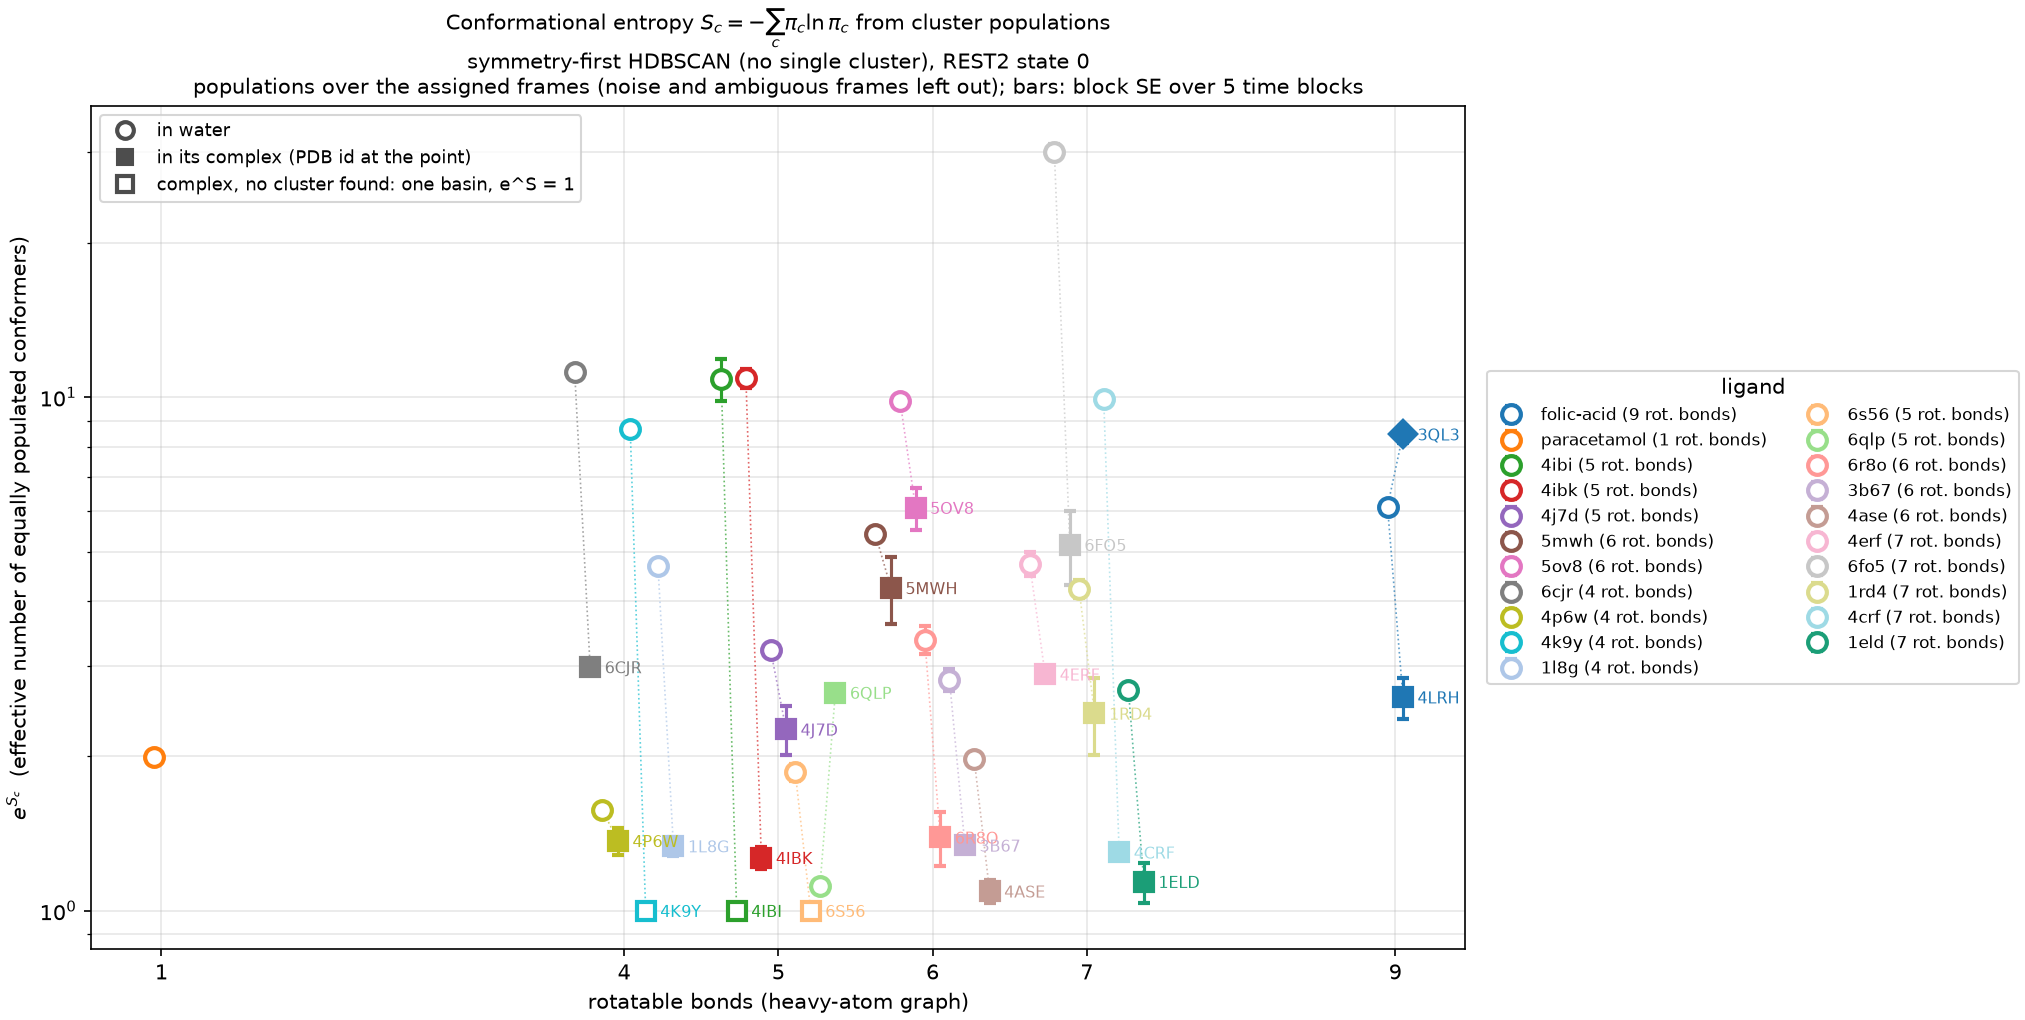
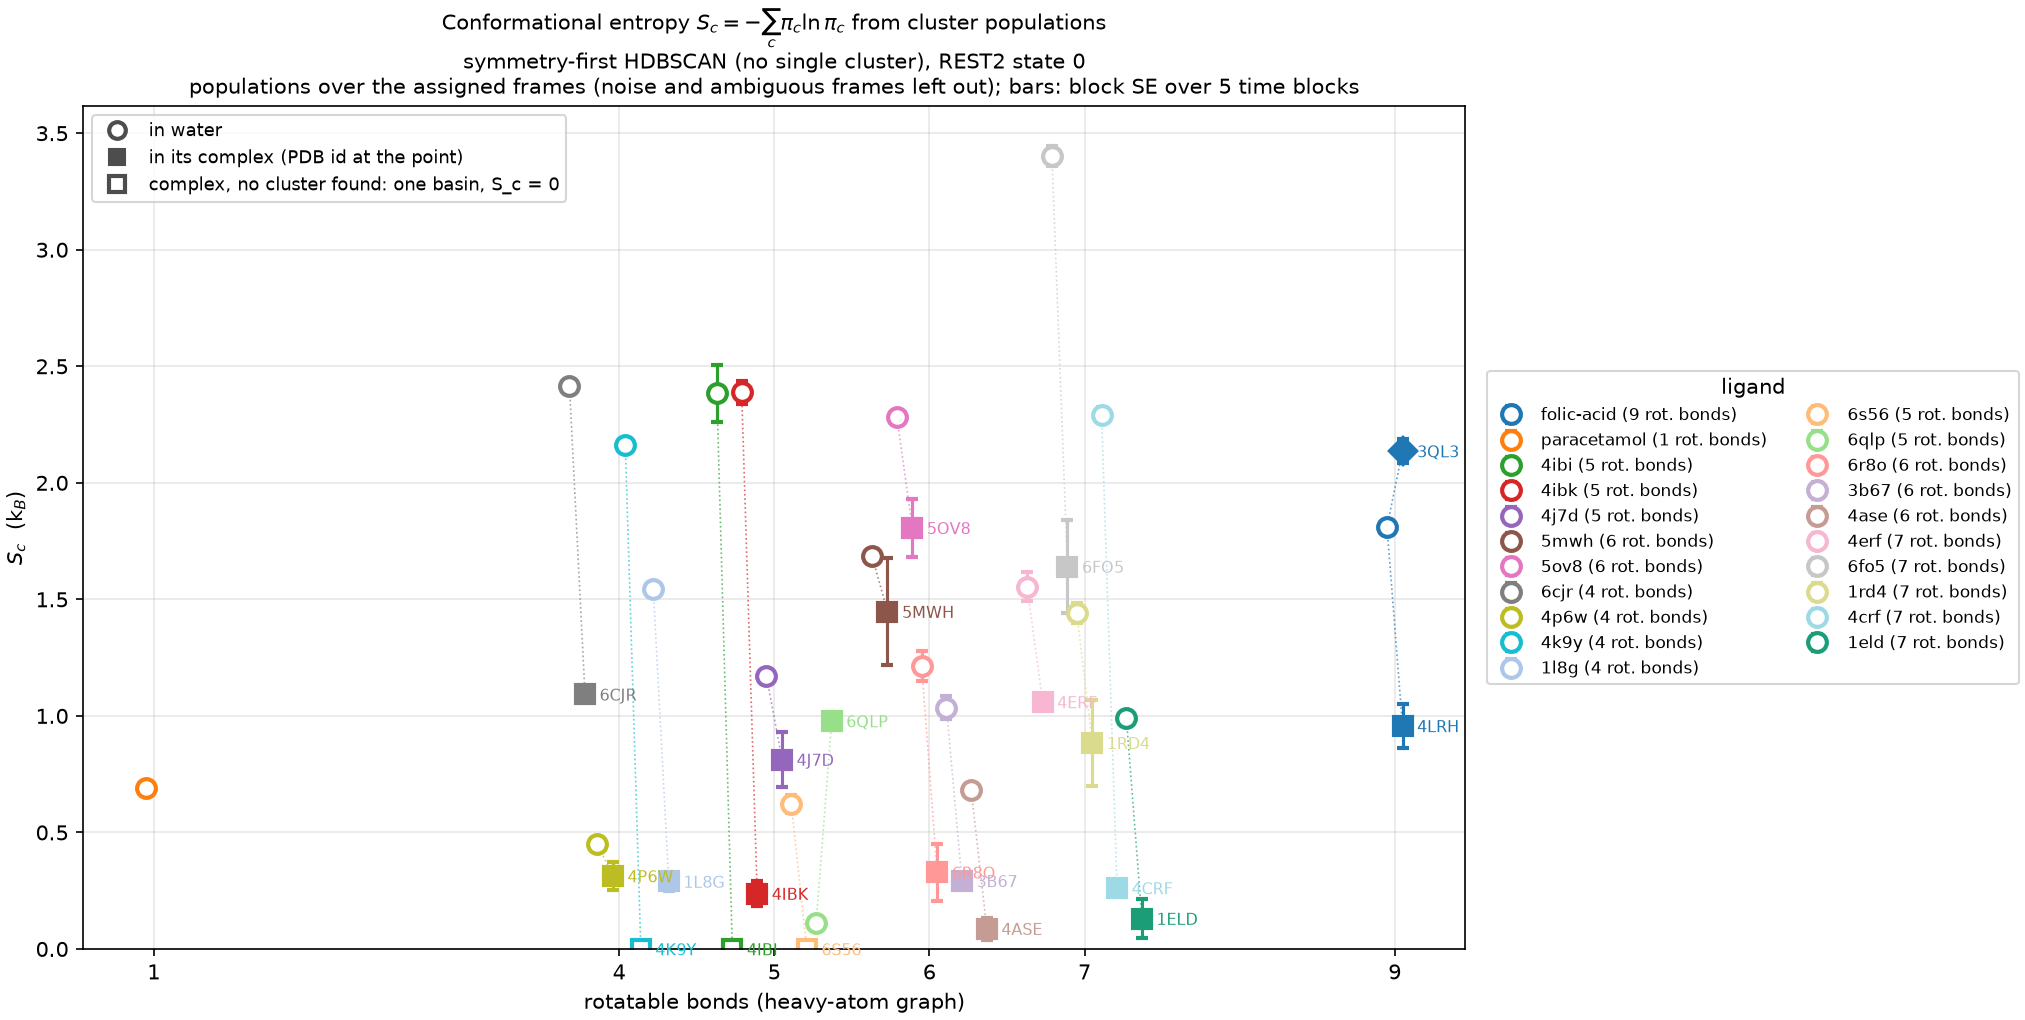
Conformational entropy plots: y axis S_c (k_B) instead of e^S_c

diff --git a/analysis/report/conformational_entropy.py b/analysis/report/conformational_entropy.py
@@ -1,7 +1,6 @@
 """Conformational entropy from cluster populations, as a flexibility measure comparable across ligands.
 
-  S_c = - sum_c pi_c ln pi_c   (units of k_B),   e^S_c = the effective number of equally populated
-                                                conformers ("behaves as if it had 1.84 conformers")
+  S_c = - sum_c pi_c ln pi_c   (units of k_B; 0 = one conformer)
 
 for every ligand in water and in each complex, from the clustering outputs written by report.sbatch
 (symmetry-first HDBSCAN, --no-single-cluster, MD-tools c30c1c0) and report_cut.sbatch (torsion
@@ -12,9 +11,9 @@ record (summary.json) and stops if route, settings or md-tools version differ be
   pi_c   HDBSCAN: the final clusters (leaves of the recursive split, merged_groups.json), masses
          renormalised over the frames assigned to a cluster (noise and
          ambiguous frames are left out; their fraction is in the CSV). A run where no cluster is found
-         (NO_CLUSTER.txt: one basin, e.g. 4ibi bound) is drawn at e^S = 1 with a hollow marker.
+         (NO_CLUSTER.txt: one basin, e.g. 4ibi bound) is drawn at S_c = 0 with a hollow marker.
          Barrier cuts: every frame is labelled; all clusters.
-  error  block standard error of e^S over --blocks consecutive time blocks of the state-0 labels
+  error  block standard error of S_c over --blocks consecutive time blocks of the state-0 labels
   x      rotatable bonds, RDKit on the heavy-atom graph (the definition used to select the ligands)
 
   python -I conformational_entropy.py [--compounds folic-acid paracetamol 4ibi ...] [--out DIR]
@@ -58,20 +57,20 @@ def letters(i):
 
 
 def block_se(labels, clusters, blocks):
-    """Standard error of e^S over consecutive blocks of the per-frame labels (unassigned dropped)."""
+    """Standard error of S_c over consecutive blocks of the per-frame labels (unassigned dropped)."""
     vals = []
     for b in np.array_split(np.asarray(labels), blocks):
         b = b[np.isin(b, clusters)]
         if len(b):
             _, counts = np.unique(b, return_counts=True)
-            vals.append(np.exp(entropy(counts)))
+            vals.append(entropy(counts))
     return float(np.std(vals, ddof=1) / np.sqrt(len(vals))) if len(vals) > 1 else float("nan")
 
 
 def read_run(d, method, blocks):
-    """(populations, unassigned fraction, e^S block SE, algorithm record, note) of one clustering output."""
+    """(populations, unassigned fraction, S_c block SE, algorithm record, note) of one clustering output."""
     if method == "hdbscan" and os.path.exists(f"{d}/NO_CLUSTER.txt"):
-        return [1.0], 1.0, 0.0, None, "no cluster found (one basin): drawn at e^S = 1"
+        return [1.0], 1.0, 0.0, None, "no cluster found (one basin): drawn at S_c = 0"
     s = json.load(open(f"{d}/summary.json"))
     lab = pd.read_csv(f"{d}/labels.csv").iloc[:, 2].astype(str).to_numpy()
     if method == "hdbscan":
@@ -116,7 +115,7 @@ def main():
                 S = entropy(p)
                 rows.append({"method": method, "ligand": name, "system": system, "rot_bonds": rb,
                              "n_clusters": len(p) if not note else 0, "S_kB": round(S, 4),
-                             "exp_S": round(float(np.exp(S)), 3), "exp_S_block_se": round(se, 3),
+                             "S_block_se": round(se, 4),
                              "unassigned_fraction": round(unassigned, 4), "note": note,
                              "algorithm": json.dumps(rec, sort_keys=True) if rec else ""})
     df = pd.DataFrame(rows)
@@ -149,26 +148,26 @@ def main():
             w = g[g.system == "water"].iloc[0]
             cpx = g[g.system != "water"]
             for k, (_, c) in enumerate(cpx.iterrows()):
-                ax.plot([x0 - 0.05, x0 + 0.05], [w.exp_S, c.exp_S], color=col, lw=0.8, ls=":", alpha=0.7)
-            ax.errorbar(x0 - 0.05, w.exp_S, yerr=w.exp_S_block_se, fmt="o", mfc="white", mec=col, ecolor=col,
+                ax.plot([x0 - 0.05, x0 + 0.05], [w.S_kB, c.S_kB], color=col, lw=0.8, ls=":", alpha=0.7)
+            ax.errorbar(x0 - 0.05, w.S_kB, yerr=w.S_block_se, fmt="o", mfc="white", mec=col, ecolor=col,
                         ms=9, mew=2, capsize=3, label=f"{name} ({int(w.rot_bonds)} rot. bonds)")
             for k, (_, c) in enumerate(cpx.iterrows()):
                 hollow = bool(c.note)
-                ax.errorbar(x0 + 0.05, c.exp_S, yerr=None if hollow else c.exp_S_block_se,
+                ax.errorbar(x0 + 0.05, c.S_kB, yerr=None if hollow else c.S_block_se,
                             fmt=markers[k % len(markers)], mfc="white" if hollow else col, mec=col, ecolor=col,
                             ms=9, mew=2, capsize=3)
-                ax.annotate(c.system.replace(" complex", ""), (x0 + 0.05, c.exp_S), textcoords="offset points",
+                ax.annotate(c.system.replace(" complex", ""), (x0 + 0.05, c.S_kB), textcoords="offset points",
                             xytext=(7, -3), fontsize=7.5, color=col)
-        ax.set_yscale("log")
+        ax.set_ylim(bottom=0)
         ax.set_xlabel("rotatable bonds (heavy-atom graph)")
-        ax.set_ylabel(r"$e^{S_c}$  (effective number of equally populated conformers)")
+        ax.set_ylabel(r"$S_c$  (k$_B$)")
         ax.set_xticks(sorted(df.rot_bonds.unique()))
         ax.grid(alpha=0.3, which="both")
         h = [plt.Line2D([], [], marker="o", ls="", mfc="white", mec="0.3", mew=2, ms=8, label="in water"),
              plt.Line2D([], [], marker="s", ls="", color="0.3", ms=8, label="in its complex (PDB id at the point)")]
         if (sub.note != "").any():
             h.append(plt.Line2D([], [], marker="s", ls="", mfc="white", mec="0.3", mew=2, ms=8,
-                                label="complex, no cluster found: one basin, e^S = 1"))
+                                label="complex, no cluster found: one basin, S_c = 0"))
         leg1 = ax.legend(handles=h, loc="upper left", fontsize=8.5)
         ax.add_artist(leg1)
         ax.legend(loc="center left", bbox_to_anchor=(1.01, 0.5), fontsize=8, title="ligand",

diff --git a/analysis/report/README.md b/analysis/report/README.md
@@ -42,12 +42,12 @@ worktree at 306b109), so `analysis-env-main` and the symmetry-first results stay
 
 ## Conformational entropy across ligands
 
-`conformational_entropy.py` (`sbatch conformational_entropy.sbatch`): S_c = -sum pi_c ln pi_c (k_B) and
-e^S_c, the effective number of equally populated conformers, for every ligand in water and complex,
+`conformational_entropy.py` (`sbatch conformational_entropy.sbatch`): S_c = -sum pi_c ln pi_c (k_B) for
+every ligand in water and complex,
 from the populations of each clustering method -> `results/overview/conformational-entropy/`
 (`_hdbscan.png`, `_cut.png`, `.csv`). Each figure uses one method with one set of settings; the script
 checks every run's own record and stops if they differ. HDBSCAN: populations over the assigned frames
-(the unassigned fraction is in the CSV); a run with no cluster is drawn at e^S = 1, hollow. Error bars:
+(the unassigned fraction is in the CSV); a run with no cluster is drawn at S_c = 0, hollow. Error bars:
 block standard error over 5 time blocks. x: rotatable bonds, RDKit on the heavy-atom graph.
 
 ## KL divergence: bound vs free ensemble
